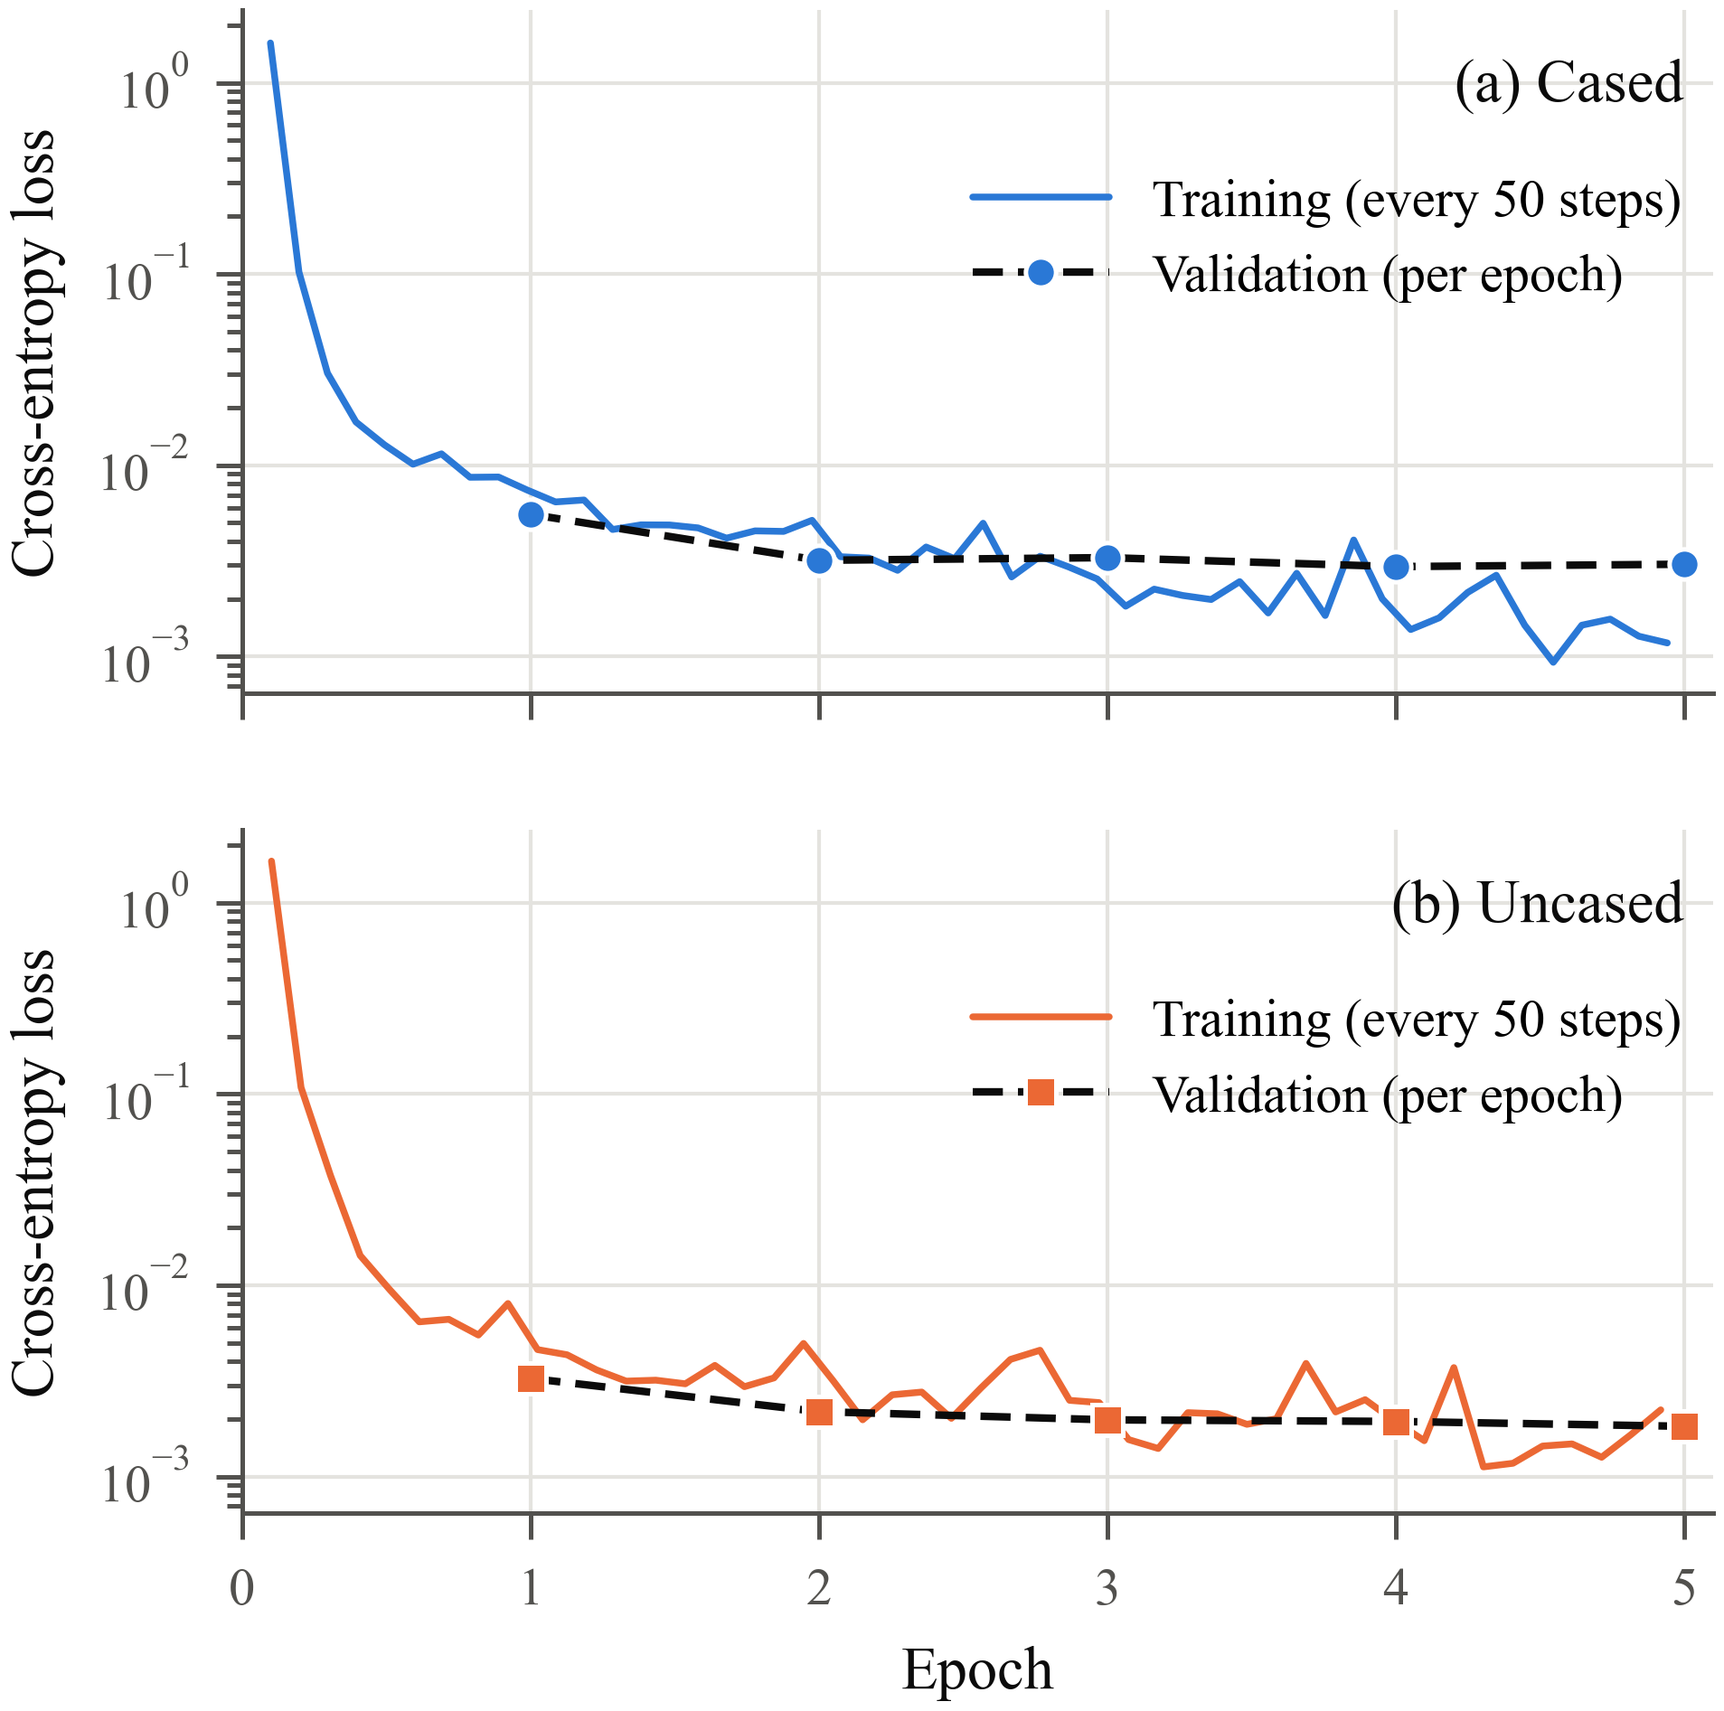
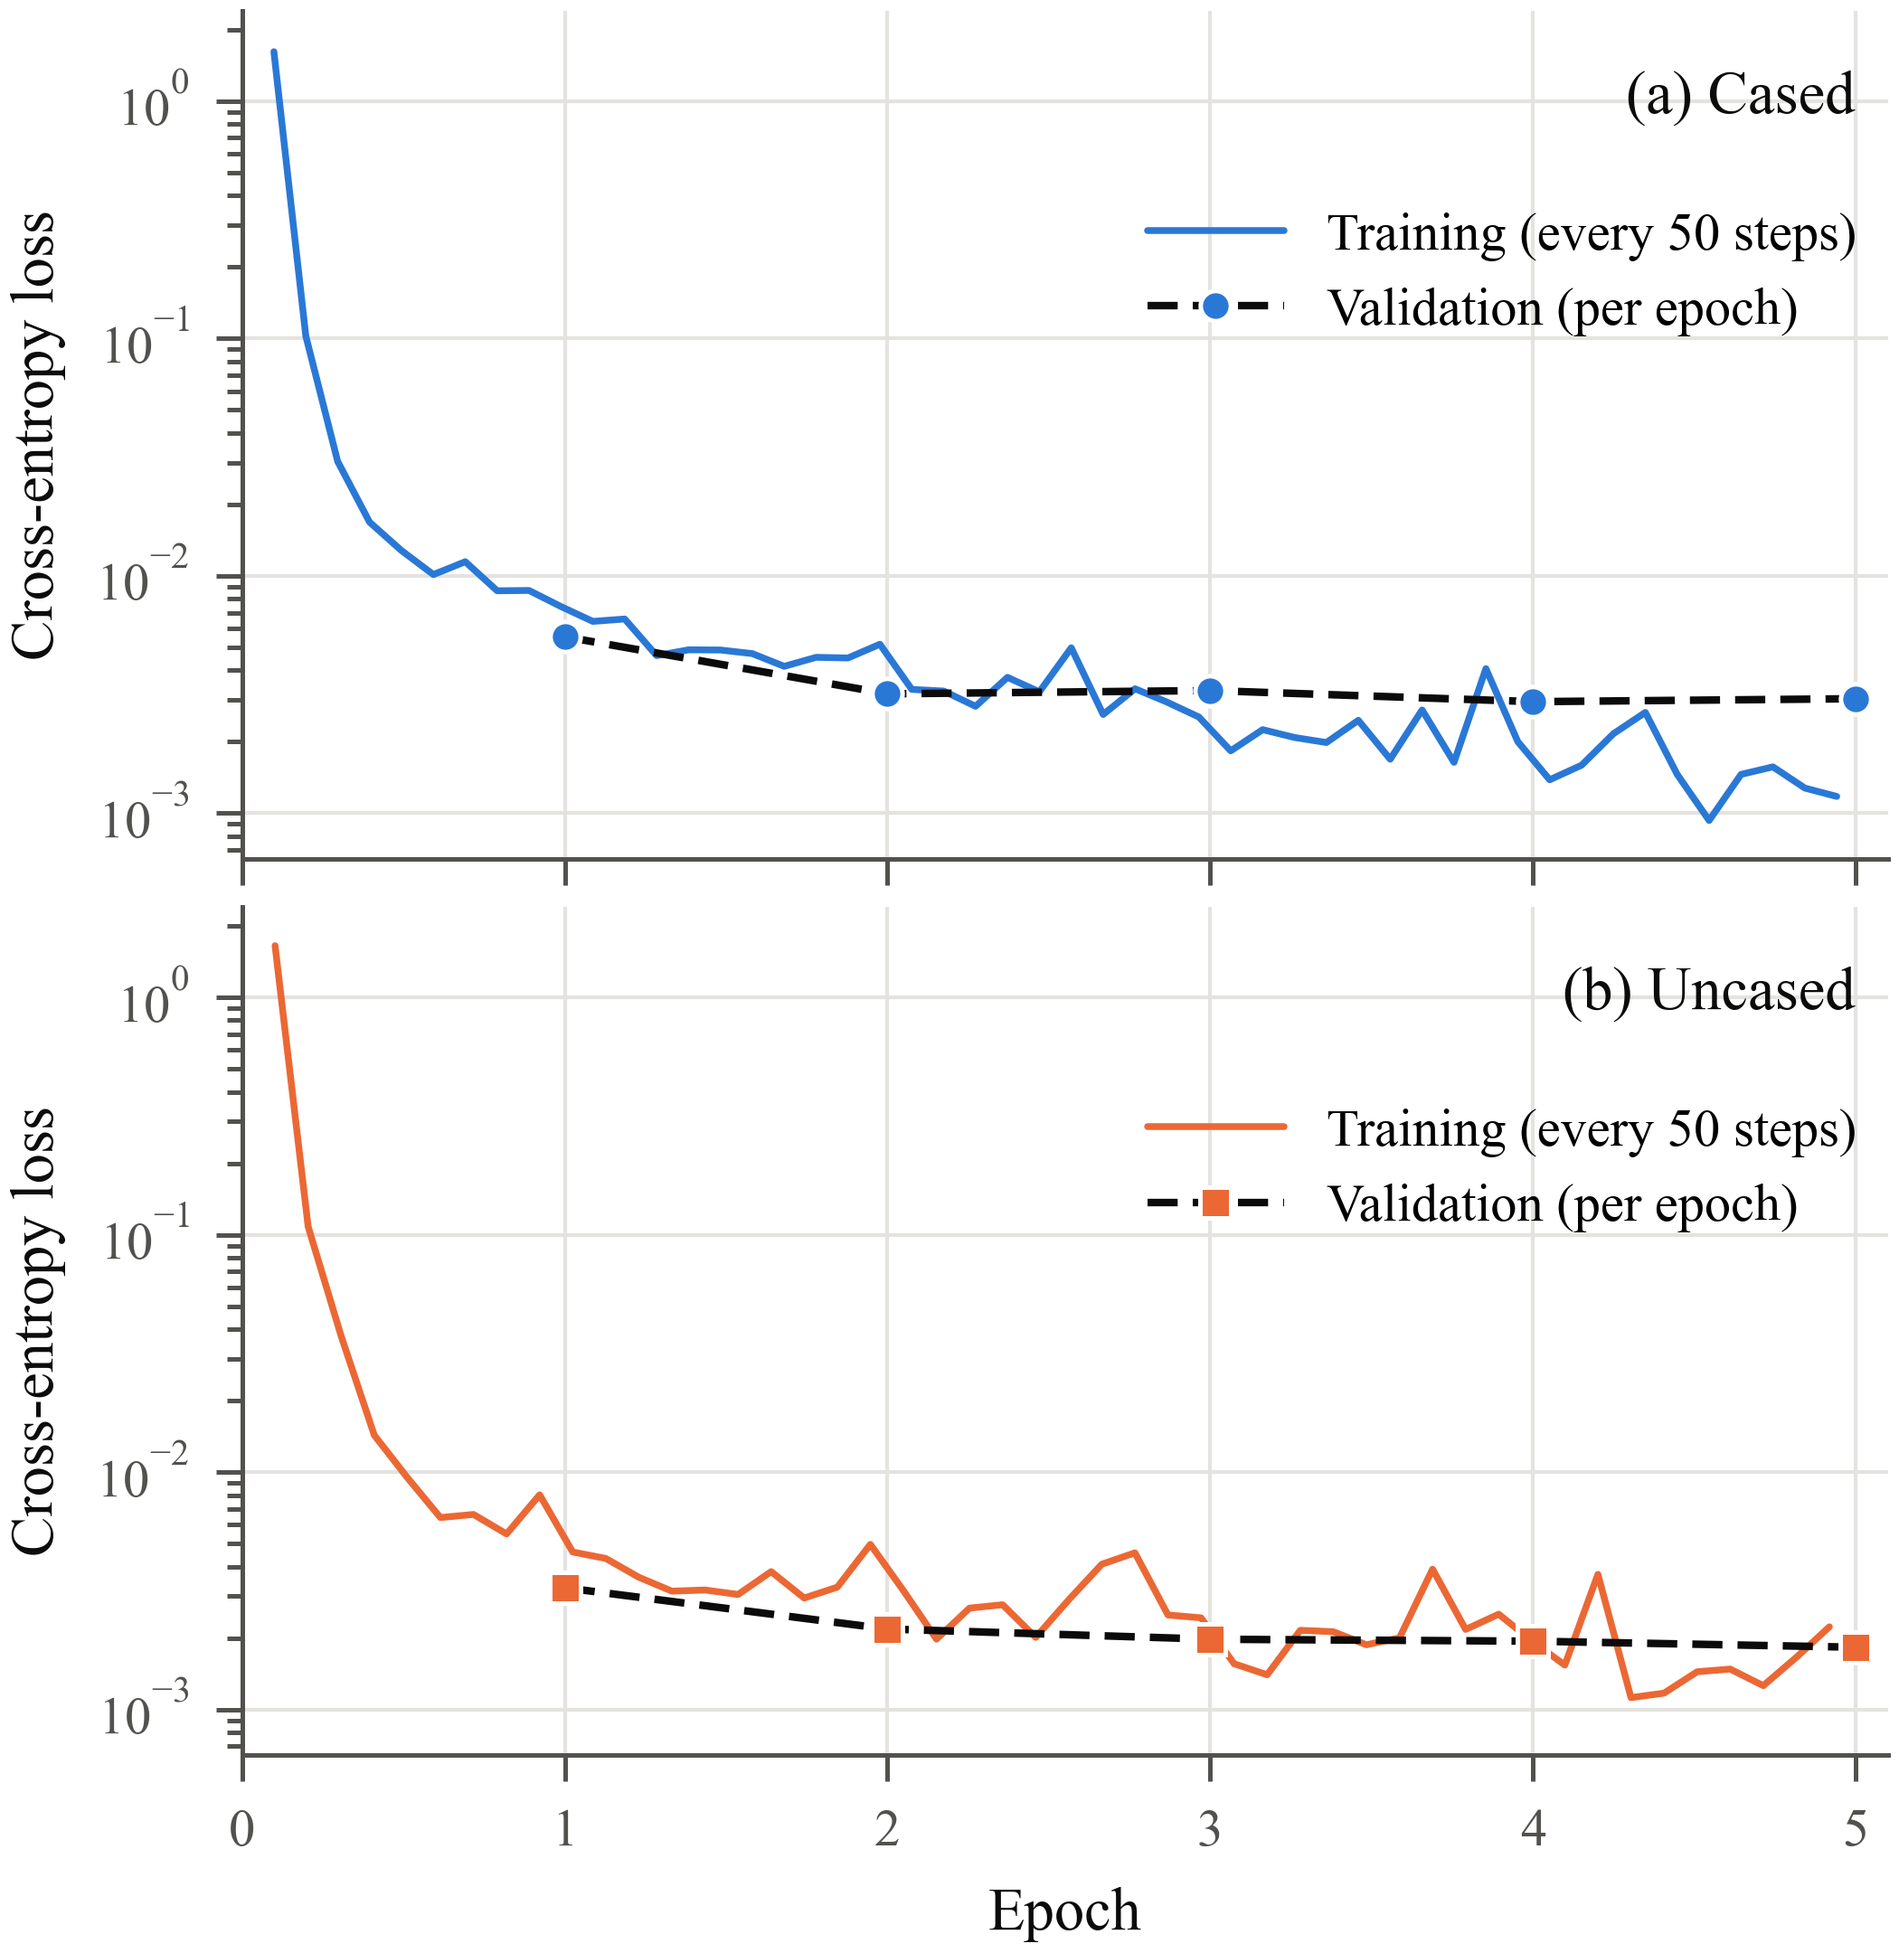
Render report figures at exact IEEE column width (3.5 in)

diff --git a/scripts/plot_training_curves.py b/scripts/plot_training_curves.py
@@ -62,8 +62,9 @@ plt.rcParams.update(
         "pdf.fonttype": 42,  # embed TrueType fonts (IEEE PDF eXpress requirement)
         "ps.fonttype": 42,
         "savefig.dpi": 600,
-        "savefig.bbox": "tight",
-        "savefig.pad_inches": 0.02,
+        "figure.constrained_layout.use": True,  # exact 3.5 in canvas, so 8 pt prints at 8 pt
+        "figure.constrained_layout.h_pad": 0.02,
+        "figure.constrained_layout.w_pad": 0.02,
     }
 )
 
@@ -146,7 +147,6 @@ def fig_loss():
     axes[-1].set_xlabel("Epoch")
     axes[-1].set_xlim(0, 5.1)
     axes[-1].set_xticks(range(0, 6))
-    fig.align_ylabels(axes)
     save(fig, "fig_loss_curves")
 
 
